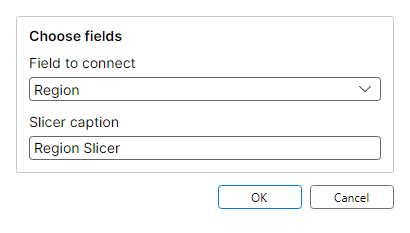
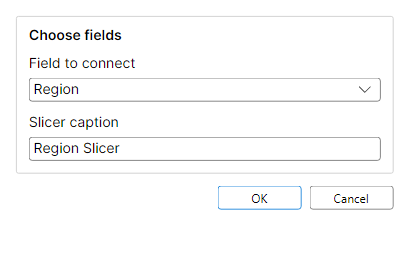
Align simple dialog visual size contracts

Changed region(s): [[0.0293, 0.2103, 0.9659, 0.9013], [0.0293, 0.0601, 0.9659, 0.1803], [0.9073, 0.5107, 0.9366, 0.5408]]

diff --git a/src/FreeX.App.Host/PivotSlicerTimelineDialogs.cs b/src/FreeX.App.Host/PivotSlicerTimelineDialogs.cs
@@ -1,6 +1,7 @@
 using System.Windows;
 using System.Windows.Controls;
 using System.Windows.Input;
+using FreeX.App.Presentation.SlicerTimeline;
 
 namespace FreeX.App.Host;
 
@@ -19,8 +20,8 @@ public sealed class InsertSlicerDialog : Window
         var field = PivotSlicerTimelineFieldLookup.FindFieldByNameOrFirst(fields, selectedField);
         Result = CreateResult(field, UiText.Format("PivotSlicerTimeline_DefaultSlicerName", field));
         Title = UiText.Get("PivotSlicerTimeline_InsertSlicer");
-        Width = 410;
-        Height = 270;
+        Width = PivotSlicerTimelineDialogContract.Width;
+        Height = PivotSlicerTimelineDialogContract.Height;
         WindowStartupLocation = WindowStartupLocation.CenterOwner;
         ResizeMode = ResizeMode.NoResize;
         ShowInTaskbar = false;
@@ -109,8 +110,8 @@ public sealed class InsertTimelineDialog : Window
         var field = PivotSlicerTimelineFieldLookup.FindFieldByNameOrFirst(fields, selectedField);
         Result = CreateResult(field, UiText.Format("PivotSlicerTimeline_DefaultTimelineName", field));
         Title = UiText.Get("PivotSlicerTimeline_InsertTimeline");
-        Width = 410;
-        Height = 270;
+        Width = PivotSlicerTimelineDialogContract.Width;
+        Height = PivotSlicerTimelineDialogContract.Height;
         WindowStartupLocation = WindowStartupLocation.CenterOwner;
         ResizeMode = ResizeMode.NoResize;
         ShowInTaskbar = false;

diff --git a/tests/FreeX.App.Avalonia.Tests/AvaloniaMainWindowChromeSourceTests.cs b/tests/FreeX.App.Avalonia.Tests/AvaloniaMainWindowChromeSourceTests.cs
@@ -348,6 +348,17 @@ public sealed class AvaloniaMainWindowChromeSourceTests
     }
 
     [Fact]
+    public void ParityCapture_PivotControlPickerUsesSharedDialogSizeContract()
+    {
+        var captureSource = File.ReadAllText(RepoFile("src", "FreeX.App.Avalonia", "MainWindow.ParityCapture.cs"));
+
+        captureSource.Should().Contain("using FreeX.App.Presentation.SlicerTimeline;");
+        captureSource.Should().Contain("Width = PivotSlicerTimelineDialogContract.Width");
+        captureSource.Should().Contain("Height = PivotSlicerTimelineDialogContract.Height");
+        captureSource.Should().Contain("SizeToContent = SizeToContent.Manual");
+    }
+
+    [Fact]
     public void NativeFileMenu_InstallsForMacOsDockAndMirrorsBackstageCommandGroups()
     {
         var source = File.ReadAllText(RepoFile("src", "FreeX.App.Avalonia", "MainWindow.cs"));

diff --git a/src/FreeX.App.Avalonia/MainWindow.ParityCapture.cs b/src/FreeX.App.Avalonia/MainWindow.ParityCapture.cs
@@ -22,6 +22,7 @@ using FreeX.App.Presentation.DrawingUI;
 using FreeX.App.Presentation.Filtering;
 using FreeX.App.Presentation.PageLayout;
 using FreeX.App.Presentation.PivotUI;
+using FreeX.App.Presentation.SlicerTimeline;
 using FreeX.App.Services;
 using FreeX.Core.Calc;
 using FreeX.Core.Commands;
@@ -1041,8 +1042,9 @@ public sealed partial class MainWindow
         var dialog = new Window
         {
             Title = title,
-            Width = 410,
-            SizeToContent = SizeToContent.Height,
+            Width = PivotSlicerTimelineDialogContract.Width,
+            Height = PivotSlicerTimelineDialogContract.Height,
+            SizeToContent = SizeToContent.Manual,
             WindowStartupLocation = WindowStartupLocation.CenterOwner,
             CanResize = false,
             ShowInTaskbar = false,

diff --git a/src/FreeX.App.Avalonia/MainWindow.cs b/src/FreeX.App.Avalonia/MainWindow.cs
@@ -8267,10 +8267,13 @@ public sealed partial class MainWindow : Window
         var dialog = new Window
         {
             Title = "Zoom",
-            Width = 300,
-            MinWidth = 300,
-            MaxWidth = 300,
-            SizeToContent = SizeToContent.Height,
+            Width = ZoomDialogPlanner.Width,
+            Height = ZoomDialogPlanner.Height,
+            MinWidth = ZoomDialogPlanner.Width,
+            MaxWidth = ZoomDialogPlanner.Width,
+            MinHeight = ZoomDialogPlanner.Height,
+            MaxHeight = ZoomDialogPlanner.Height,
+            SizeToContent = SizeToContent.Manual,
             CanResize = false,
             WindowStartupLocation = WindowStartupLocation.CenterOwner,
             ShowInTaskbar = false,

diff --git a/tests/FreeX.App.Host.Tests/PivotWorkflowDialogTests.AuxiliaryDialogs.cs b/tests/FreeX.App.Host.Tests/PivotWorkflowDialogTests.AuxiliaryDialogs.cs
@@ -84,6 +84,8 @@ public sealed partial class PivotWorkflowDialogTests
     {
         var source = ReadPivotWorkflowSource();
 
+        source.Should().Contain("Width = PivotSlicerTimelineDialogContract.Width");
+        source.Should().Contain("Height = PivotSlicerTimelineDialogContract.Height");
         source.Should().Contain("UiText.Get(\"PivotSlicerTimeline_ChooseFieldsGroup\")");
         source.Should().Contain("UiText.Get(\"PivotSlicerTimeline_FieldToConnectLabel\")");
         source.Should().Contain("UiText.Get(\"PivotSlicerTimeline_SlicerCaptionLabel\")");

diff --git a/tests/FreeX.App.Host.Tests/RemainingDialogTests.Zoom.cs b/tests/FreeX.App.Host.Tests/RemainingDialogTests.Zoom.cs
@@ -28,6 +28,8 @@ public sealed partial class RemainingDialogTests
     {
         var source = ReadRemainingDialogSources();
 
+        source.Should().Contain("Width = ZoomDialogPlanner.Width");
+        source.Should().Contain("Height = ZoomDialogPlanner.Height");
         source.Should().Contain("ZoomDialogPlanner.Presets");
         source.Should().Contain("ZoomDialogPlanner.IsPreset(currentZoomPercent)");
         source.Should().Contain("_fitSelectionButton");

diff --git a/tests/FreeX.App.Services.Tests/ZoomDialogPlannerTests.cs b/tests/FreeX.App.Services.Tests/ZoomDialogPlannerTests.cs
@@ -12,6 +12,13 @@ public sealed class ZoomDialogPlannerTests
     }
 
     [Fact]
+    public void SizeContract_MatchesWpfVisualEvidenceTarget()
+    {
+        ZoomDialogPlanner.Width.Should().Be(300);
+        ZoomDialogPlanner.Height.Should().Be(240);
+    }
+
+    [Fact]
     public void TryCreateResult_AcceptsWholePercentWithinRange()
     {
         ZoomDialogPlanner.TryCreateResult("125%", out var result, out var error).Should().BeTrue();

diff --git a/src/FreeX.App.Host/ZoomDialog.cs b/src/FreeX.App.Host/ZoomDialog.cs
@@ -22,8 +22,8 @@ public sealed class ZoomDialog : Window
     {
         Result = new ZoomDialogResult(currentZoomPercent);
         Title = UiText.Get("Zoom_Zoom");
-        Width = 300;
-        Height = 240;
+        Width = ZoomDialogPlanner.Width;
+        Height = ZoomDialogPlanner.Height;
         WindowStartupLocation = WindowStartupLocation.CenterOwner;
         ResizeMode = ResizeMode.NoResize;
         ShowInTaskbar = false;

diff --git a/src/FreeX.App.Services/ZoomDialogPlanner.cs b/src/FreeX.App.Services/ZoomDialogPlanner.cs
@@ -6,6 +6,9 @@ public sealed record ZoomDialogValidationError(string ResourceKey, string Fallba
 
 public static class ZoomDialogPlanner
 {
+    public const double Width = 300;
+    public const double Height = 240;
+
     private static readonly int[] PresetValues = [400, 200, 100, 75, 50, 25];
 
     public static IReadOnlyList<int> Presets => PresetValues;

diff --git a/src/FreeX.App.Presentation/SlicerTimeline/PivotSlicerTimelineDialogContract.cs b/src/FreeX.App.Presentation/SlicerTimeline/PivotSlicerTimelineDialogContract.cs
@@ -1,0 +1,7 @@
+namespace FreeX.App.Presentation.SlicerTimeline;
+
+public static class PivotSlicerTimelineDialogContract
+{
+    public const double Width = 410;
+    public const double Height = 270;
+}

diff --git a/docs/parity/dialog-visual-evidence-summary.md b/docs/parity/dialog-visual-evidence-summary.md
@@ -31,22 +31,22 @@ Sources:
 | WPF manifest ids without Avalonia pair | 0 |
 | Avalonia-manifest-only screenshot surface ids needing WPF manifest pair | 0 |
 | Nonblank PNG check failures | 0 |
-| Paired dimension mismatches (scale-aware logical units) | 53 |
+| Paired dimension mismatches (scale-aware logical units) | 50 |
 | Raw PNG pixel dimension mismatches | 71 |
-| Raw PNG mismatches normalized by capture DPI | 18 |
+| Raw PNG mismatches normalized by capture DPI | 21 |
 | Paired expected-size evidence mismatches | 0 |
 | Stale promoted expected-size evidence | 0 |
 
 ## Scale-Aware Dimension Mismatch Classification
 
-The 53 scale-aware logical dimension mismatches are bucketed from committed PNG evidence and deterministic surface-id rules. Buckets describe the next review posture: align real layout sizes, fix content/state drift before comparing, accept expected platform/native control differences, or refresh limited evidence.
+The 50 scale-aware logical dimension mismatches are bucketed from committed PNG evidence and deterministic surface-id rules. Buckets describe the next review posture: align real layout sizes, fix content/state drift before comparing, accept expected platform/native control differences, or refresh limited evidence.
 
 | Bucket | Count | Top surface ids | Top next action |
 | --- | ---: | --- | --- |
 | content/visual mismatch | 14 | dialog.ScenarioManager<br>dialog.SelectionPane<br>dialog.AccessibilityChecker<br>dialog.SymbolPicker<br>dialog.FormatCells.Alignment | Align the seeded harness state before judging the remaining Scenario Manager dimensions. |
 | evidence limitation | 2 | dialog.GoalSeekStatus<br>dialog.PivotTableOptions.Display | Recapture or tighten the WPF status crop before treating the height delta as a product bug. |
 | expected platform/native difference | 19 | dialog.FindReplace.Replace<br>dialog.FindReplace<br>dialog.FindReplace.Find<br>dialog.Sparkline<br>dialog.Options.QuickAccessToolbar | Keep as expected platform/native variance unless parity policy later requires exact control metrics. |
-| real logical-size mismatch | 18 | dialog.ForecastSheet<br>dialog.Subtotal<br>dialog.GoToSpecial<br>dialog.Sort<br>dialog.TextToColumns | Review the WPF/Avalonia planner or layout target, then align the size or document an intentional size contract. |
+| real logical-size mismatch | 15 | dialog.ForecastSheet<br>dialog.Subtotal<br>dialog.GoToSpecial<br>dialog.Sort<br>dialog.TextToColumns | Review the WPF/Avalonia planner or layout target, then align the size or document an intentional size contract. |
 
 ## Top paired visual outliers
 
@@ -90,8 +90,6 @@ Outliers are ranked by a deterministic triage score: normalized 32x32 ARGB sampl
 | dialog.GoalSeekStatus | evidence limitation | 380x219 | 380x190 | 0x29 | The semantic status content matches, but the WPF PNG includes extra bottom capture area. | Recapture or tighten the WPF status crop before treating the height delta as a product bug. |
 | dialog.GoToSpecial | real logical-size mismatch | 430x438 | 430x520 | 0x82 | The paired surface has a DPI-normalized logical size delta above tolerance with no known evidence-only exemption. | Review the WPF/Avalonia planner or layout target, then align the size or document an intentional size contract. |
 | dialog.InsertHyperlink | real logical-size mismatch | 560x300 | 560x360 | 0x60 | The paired surface has a DPI-normalized logical size delta above tolerance with no known evidence-only exemption. | Review the WPF/Avalonia planner or layout target, then align the size or document an intentional size contract. |
-| dialog.InsertSlicer | real logical-size mismatch | 410x270 | 410x233 | 0x37 | The paired surface has a DPI-normalized logical size delta above tolerance with no known evidence-only exemption. | Review the WPF/Avalonia planner or layout target, then align the size or document an intentional size contract. |
-| dialog.InsertTimeline | real logical-size mismatch | 410x270 | 410x225 | 0x45 | The paired surface has a DPI-normalized logical size delta above tolerance with no known evidence-only exemption. | Review the WPF/Avalonia planner or layout target, then align the size or document an intentional size contract. |
 | dialog.Options | expected platform/native difference | 744x521 | 760x560 | 16x39 | The PNGs show the same paired surface with small WPF/Avalonia control, chrome, or default-spacing differences. | Keep as expected platform/native variance unless parity policy later requires exact control metrics. |
 | dialog.Options.AddIns | expected platform/native difference | 744x521 | 760x560 | 16x39 | The PNGs show the same paired surface with small WPF/Avalonia control, chrome, or default-spacing differences. | Keep as expected platform/native variance unless parity policy later requires exact control metrics. |
 | dialog.Options.Advanced | expected platform/native difference | 744x521 | 760x560 | 16x39 | The PNGs show the same paired surface with small WPF/Avalonia control, chrome, or default-spacing differences. | Keep as expected platform/native variance unless parity policy later requires exact control metrics. |
@@ -121,7 +119,6 @@ Outliers are ranked by a deterministic triage score: normalized 32x32 ARGB sampl
 | dialog.TextToColumns | real logical-size mismatch | 500x430 | 560x560 | 60x130 | The paired surface has a DPI-normalized logical size delta above tolerance with no known evidence-only exemption. | Review the WPF/Avalonia planner or layout target, then align the size or document an intentional size contract. |
 | dialog.WatchWindow | real logical-size mismatch | 620x320 | 700x360 | 80x40 | The paired surface has a DPI-normalized logical size delta above tolerance with no known evidence-only exemption. | Review the WPF/Avalonia planner or layout target, then align the size or document an intentional size contract. |
 | dialog.WorkbookStatistics | real logical-size mismatch | 360x260 | 380x320 | 20x60 | The paired surface has a DPI-normalized logical size delta above tolerance with no known evidence-only exemption. | Review the WPF/Avalonia planner or layout target, then align the size or document an intentional size contract. |
-| dialog.Zoom | real logical-size mismatch | 300x240 | 300x286 | 0x46 | The paired surface has a DPI-normalized logical size delta above tolerance with no known evidence-only exemption. | Review the WPF/Avalonia planner or layout target, then align the size or document an intentional size contract. |
 
 ## Expected-Size Evidence Mismatches
 
@@ -168,8 +165,8 @@ These rows have a DPI-normalized checked-in PNG size that disagrees with the dia
 | dialog.GoTo | dialog.GoTo.png | 420x320 | 630x480 px @ 144 DPI | True | dialog.GoTo.png | 420x320 | 420x320 px @ 96 DPI | True | True | 0.110 |
 | dialog.GoToSpecial | dialog.GoToSpecial.png | 430x438 | 430x438 px @ 96 DPI | True | dialog.GoToSpecial.png | 430x520 | 430x520 px @ 96 DPI | True | False | 0.636 |
 | dialog.InsertHyperlink | dialog.InsertHyperlink.png | 560x300 | 840x450 px @ 144 DPI | True | dialog.InsertHyperlink.png | 560x360 | 560x360 px @ 96 DPI | True | False | 0.307 |
-| dialog.InsertSlicer | dialog.InsertSlicer.png | 410x270 | 615x405 px @ 144 DPI | True | dialog.InsertSlicer.png | 410x233 | 410x233 px @ 96 DPI | True | False | 0.284 |
-| dialog.InsertTimeline | dialog.InsertTimeline.png | 410x270 | 615x405 px @ 144 DPI | True | dialog.InsertTimeline.png | 410x225 | 410x225 px @ 96 DPI | True | False | 0.224 |
+| dialog.InsertSlicer | dialog.InsertSlicer.png | 410x270 | 615x405 px @ 144 DPI | True | dialog.InsertSlicer.png | 410x270 | 410x270 px @ 96 DPI | True | True | 0.046 |
+| dialog.InsertTimeline | dialog.InsertTimeline.png | 410x270 | 615x405 px @ 144 DPI | True | dialog.InsertTimeline.png | 410x270 | 410x270 px @ 96 DPI | True | True | 0.040 |
 | dialog.LegalNotices | dialog.LegalNotices.png | 840x620 | 1260x930 px @ 144 DPI | True | dialog.LegalNotices.png | 840x620 | 840x620 px @ 96 DPI | True | True | 0.030 |
 | dialog.OpenWorkbook | dialog.OpenWorkbook.png | 640x420 | 640x420 px @ 96 DPI | True | dialog.OpenWorkbook.png | 640x420 | 640x420 px @ 96 DPI | True | True | 0.034 |
 | dialog.Options | dialog.Options.png | 744x521 | 744x521 px @ 96 DPI | True | dialog.Options.png | 760x560 | 760x560 px @ 96 DPI | True | False | 0.219 |
@@ -226,7 +223,7 @@ These rows have a DPI-normalized checked-in PNG size that disagrees with the dia
 | dialog.UnhideSheet | dialog.UnhideSheet.png | 340x160 | 510x240 px @ 144 DPI | True | dialog.UnhideSheet.png | 340x160 | 340x160 px @ 96 DPI | True | True | 0.041 |
 | dialog.WatchWindow | dialog.WatchWindow.png | 620x320 | 930x480 px @ 144 DPI | True | dialog.WatchWindow.png | 700x360 | 700x360 px @ 96 DPI | True | False | 0.444 |
 | dialog.WorkbookStatistics | dialog.WorkbookStatistics.png | 360x260 | 540x390 px @ 144 DPI | True | dialog.WorkbookStatistics.png | 380x320 | 380x320 px @ 96 DPI | True | False | 0.338 |
-| dialog.Zoom | dialog.Zoom.png | 300x240 | 450x360 px @ 144 DPI | True | dialog.Zoom.png | 300x286 | 300x286 px @ 96 DPI | True | False | 0.229 |
+| dialog.Zoom | dialog.Zoom.png | 300x240 | 450x360 px @ 144 DPI | True | dialog.Zoom.png | 300x240 | 300x240 px @ 96 DPI | True | True | 0.093 |
 
 ## Avalonia-Manifest-Only Screenshot Surfaces
 
